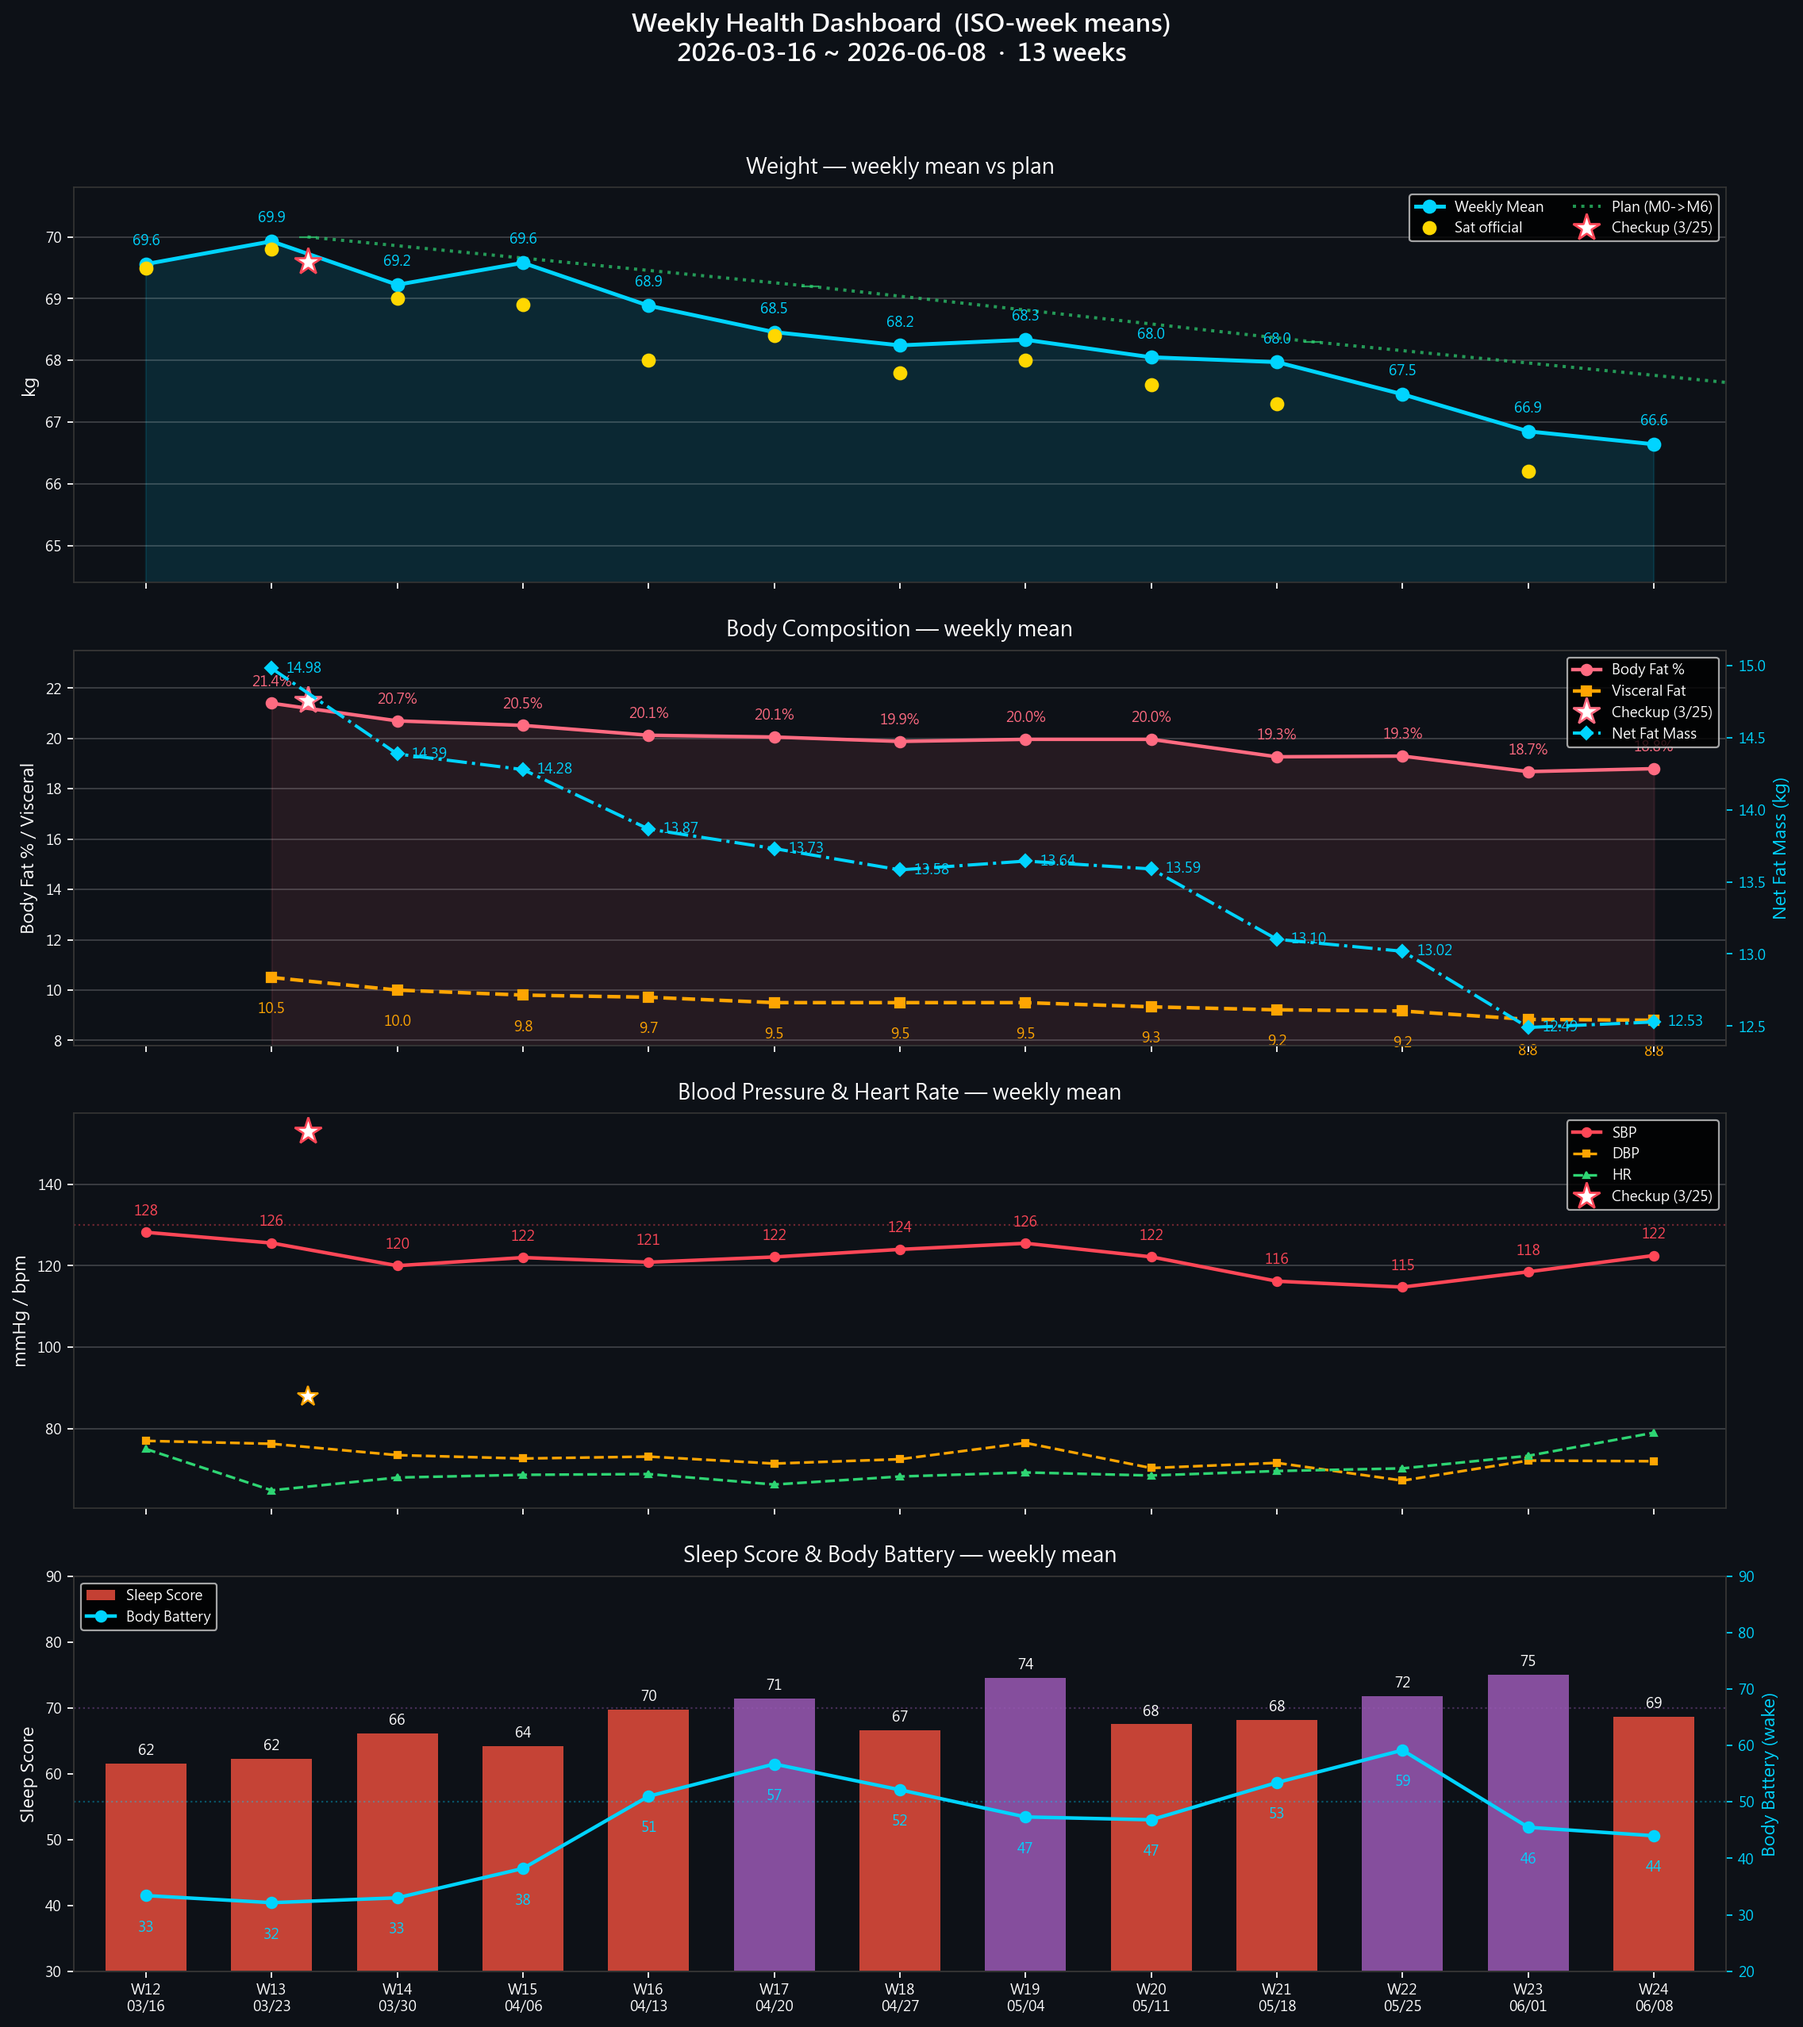
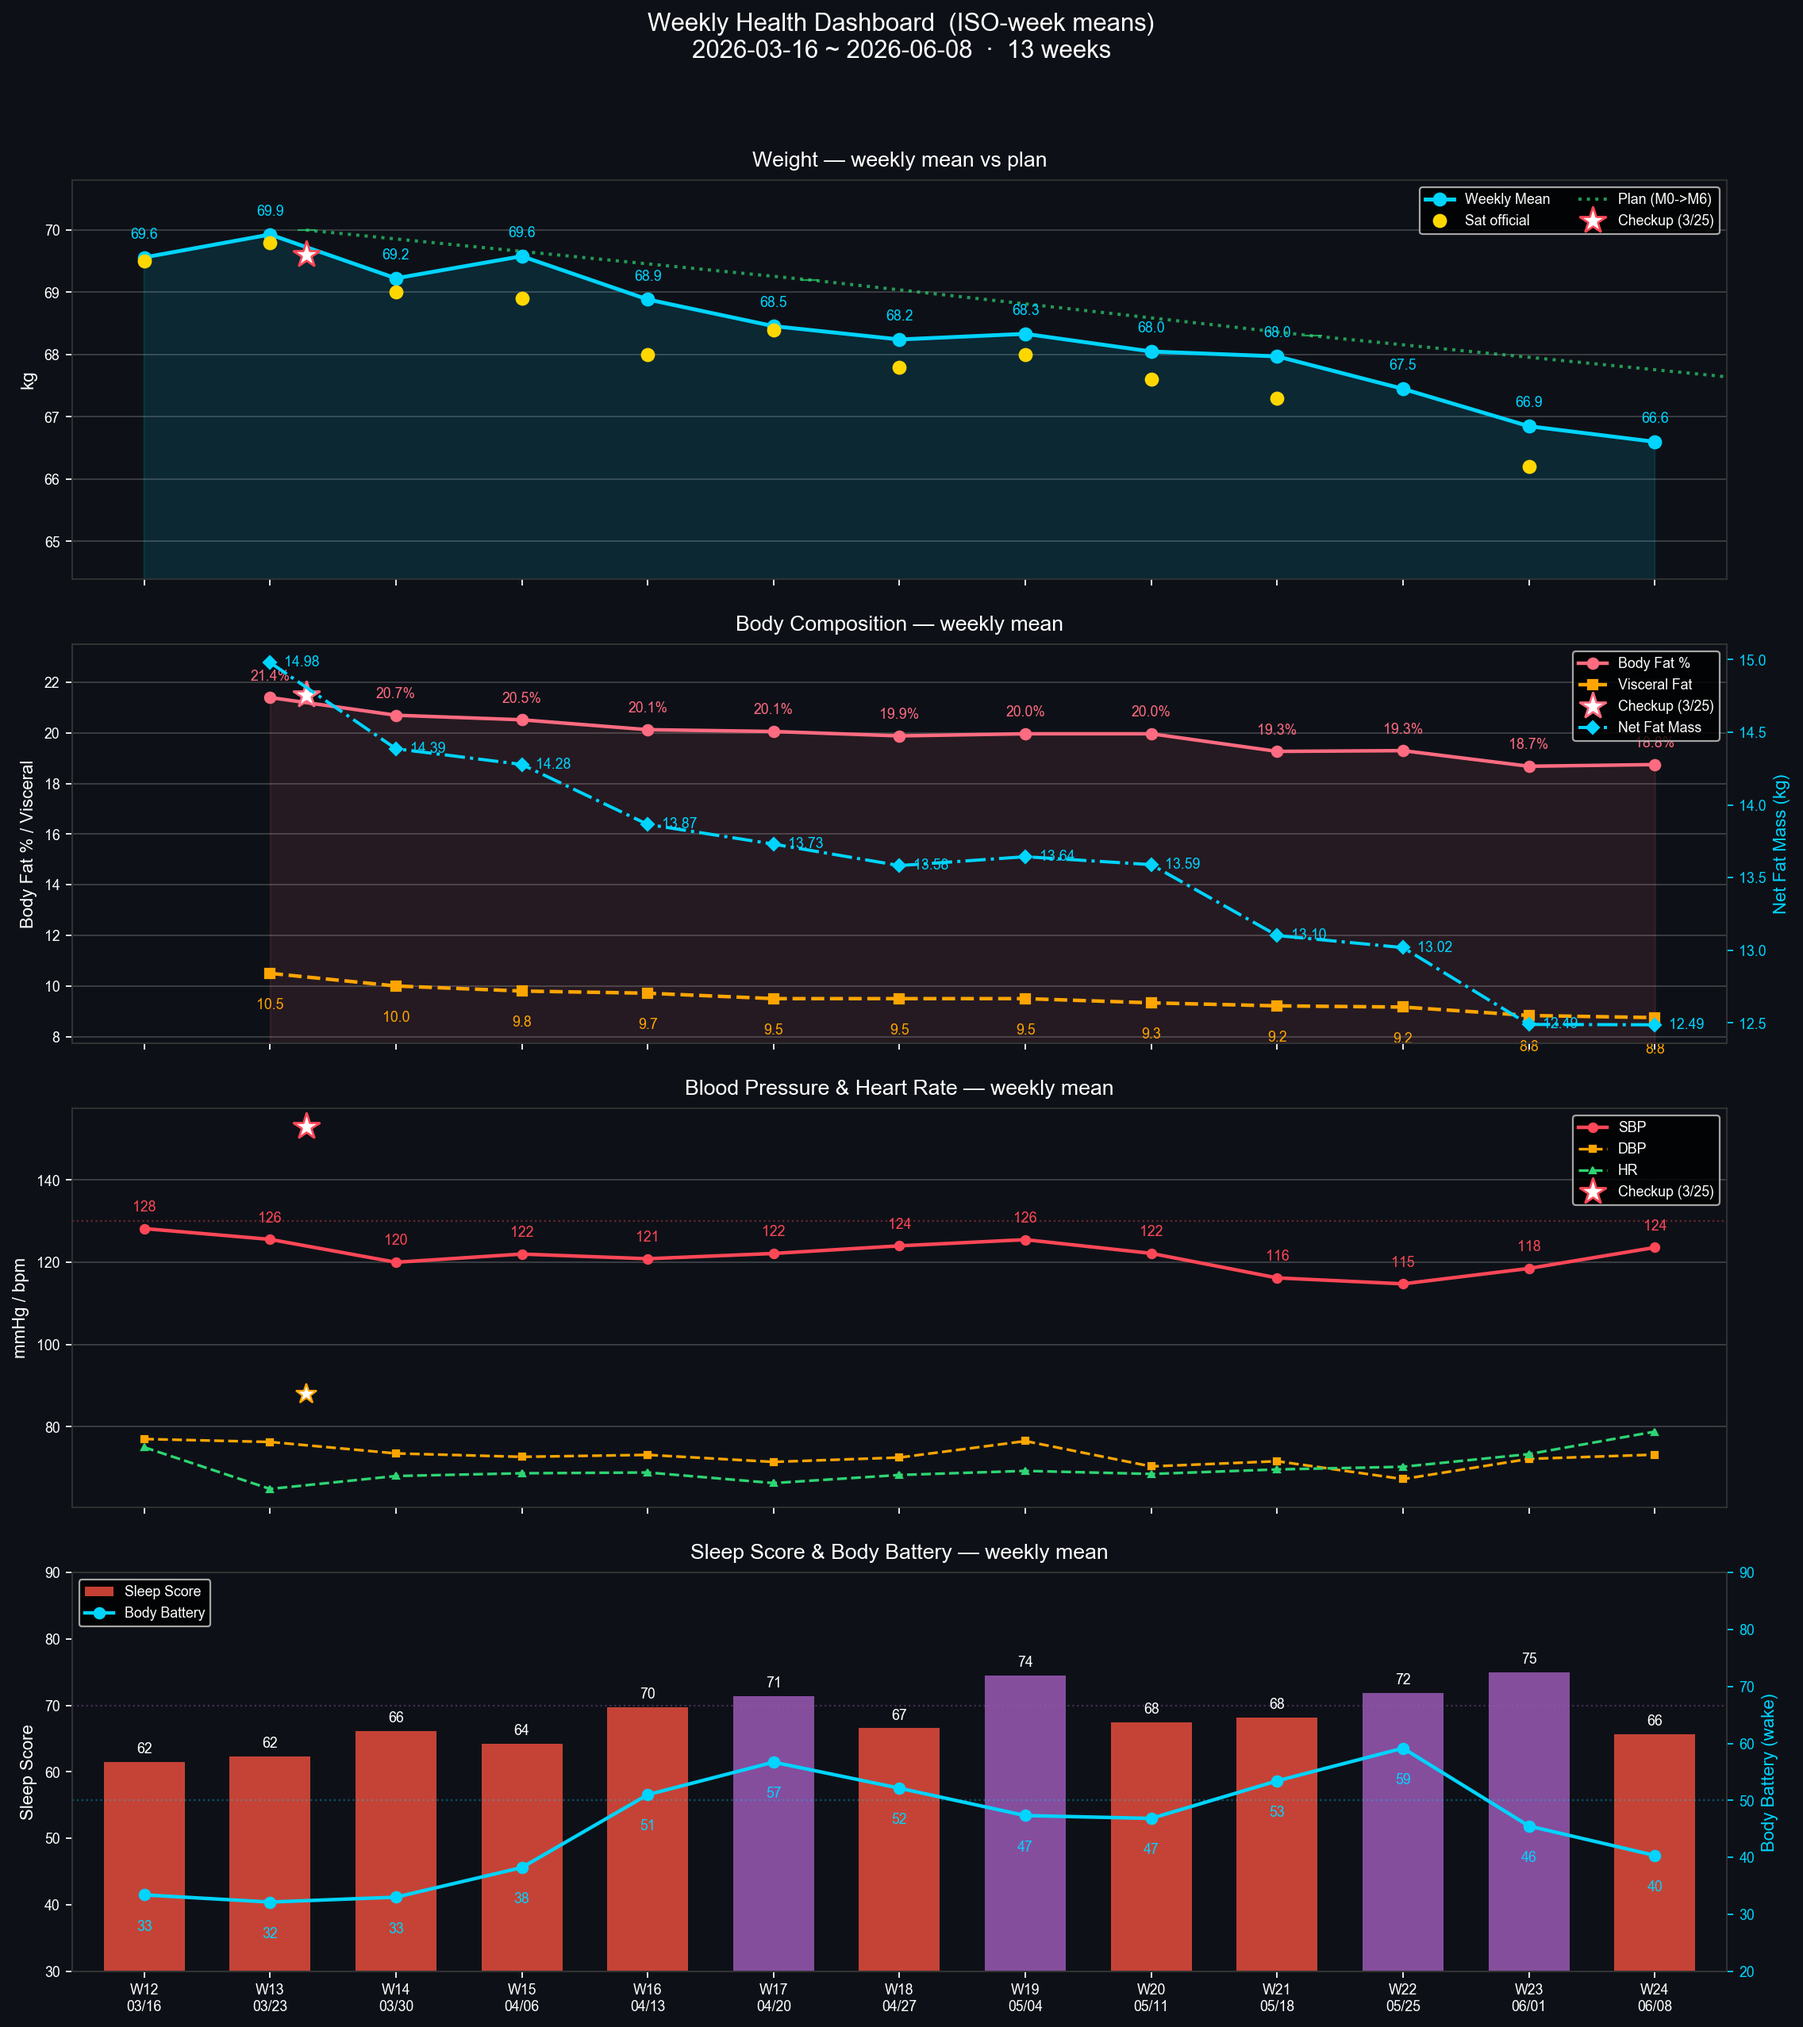
daily health log 2026-06-14

diff --git a/data.js b/data.js
@@ -17,17 +17,17 @@ window.HC_DATA = {
     lede:    { en: "Sleep, BP, lipids, uric acid — one shared metabolic root. Lifestyle stacks first; medication only after lifestyle plateaus.",
                zh: "睡眠、血壓、血脂、尿酸——共享同一個代謝根源。生活方式介入優先，等到效果平台期再考慮藥物。" },
     progressLbl: { en: "Weight progress · 70 → 65 kg", zh: "體重進度 · 70 → 65 公斤" },
-    progressMeta: { en: "Day 88 · 66.2 kg · Sat official (6/6)", zh: "第 88 天 · 66.2 公斤 · 週六正式（6/6）" },
-    startDate: { en: "Start date · Mar 17, 2026 · Last sync 6/12", zh: "起始日期 · 2026 年 3 月 17 日 · 最後同步 6/12" },
+    progressMeta: { en: "Day 90 · 66.2 kg · Sat official (6/6)", zh: "第 90 天 · 66.2 公斤 · 週六正式（6/6）" },
+    startDate: { en: "Start date · Mar 17, 2026 · Last sync 6/14", zh: "起始日期 · 2026 年 3 月 17 日 · 最後同步 6/14" },
     startWeight: 70,
     targetWeight: 65,
     currentWeight: 66.2,
     currentWeightDate: "6/6 Sat official",
     // Body comp current actuals — latest daily reading (6/5). Manual for now:
     // sync_data_js.py does NOT yet populate these (only weight/BP/sleep). Update on daily check-in.
-    currentBodyFat: 19.4,
-    currentVisceralFat: 9,
-    currentBodyCompDate: "6/12",
+    currentBodyFat: 18.5,
+    currentVisceralFat: 8.5,
+    currentBodyCompDate: "6/14",
     // Waist = WHO midpoint (健檢-comparable; better VAT proxy than weight). Latest non-empty daily reading.
     currentWaist: 82,
     currentWaistDate: "6/9",
@@ -54,14 +54,14 @@ window.HC_DATA = {
   markers: [
     {
       sys: "heart", name: { en: "Blood Pressure", zh: "血壓" },
-      val: "118/72", unit: "mmHg",
-      delta: { en: "W23 weekly avg (6 days) · target met (<130) · last 119/74 (6/11)", zh: "W23 週均（6 天）· 已達標 (<130) · 最新 119/74 (6/11)" },
+      val: "124/73", unit: "mmHg",
+      delta: { en: "W24 weekly avg (5 days) · target met (<130) · last 128/78 (6/14)", zh: "W24 週均（5 天）· 已達標 (<130) · 最新 128/78 (6/14)" },
       cadence: { en: "Daily · weekly avg", zh: "每日 · 週均" },
       status: "ok",
     },
     {
       sys: "sleep", name: { en: "Sleep Score", zh: "睡眠分數" },
-      val: "78", unit: "Garmin",
+      val: "51", unit: "Garmin",
       delta: { en: "5/4 · OSA flag: T90 18.4% (severe)", zh: "5/4 · OSA 紅旗：T90 18.4%（重度）" },
       cadence: { en: "Daily · Garmin", zh: "每日 · Garmin" },
       status: "warn",
@@ -942,17 +942,17 @@ window.HC_DATA = {
   tracker: {
     // [SBP, DBP] — gaps filled with prior reading
     bp: [
-      [114,67], [114,67], [114,67], [119,70], [113,70], [117,69], [118,74], [123,75], [121,75], [120,71], [129,72], [122,71], [119,74], [119,74],
+      [114,67], [114,67], [119,70], [113,70], [117,69], [118,74], [123,75], [121,75], [120,71], [129,72], [122,71], [119,74], [119,74], [128,78],
     ],
     // daily weight (kg)
-    weight: [67.1, 66.8, 67, 67.2, 67.2, 66.7, 66.6, 66.2, 67.2, 66.8, 66.9, 66.7, 66.3, 66.5],
+    weight: [66.8, 67, 67.2, 67.2, 66.7, 66.6, 66.2, 67.2, 66.8, 66.9, 66.7, 66.3, 66.5, 66.4],
     // Garmin Sleep Score
-    sleep:  [76, 66, 79, 80, 79, 76, 73, 75, 67, 81, 70, 59, 55, 78],
+    sleep:  [66, 79, 80, 79, 76, 73, 75, 67, 81, 70, 59, 55, 78, 51],
     // Body Battery waking
-    bb:     [59, 55, 69, 71, 53, 41, 40, 39, 29, 41, 56, 37, 32, 54],
+    bb:     [55, 69, 71, 53, 41, 40, 39, 29, 41, 56, 37, 32, 54, 22],
     // SpO2 nightly nadir % (last 14 days, parallel to bp/weight/sleep/bb).
     // Earlier nights null until sync_data_js.py backfills; banner only uses trailing values.
-    spo2Nadir: [94, 91, 86, 89, 87, 92, 94, 85, null, 90, 87, 87, 91, 88],
+    spo2Nadir: [91, 86, 89, 87, 92, 94, 85, null, 90, 87, 87, 91, 88, null],
   },
 
   // ===== Running — started 2026-04-26 =====

diff --git a/reviews/daily/2026-06-14.md b/reviews/daily/2026-06-14.md
@@ -1,0 +1,117 @@
+# 晨間健康紀錄 — 2026-06-14
+
+*3 分鐘。起床後立即完成。記錄，不分析。*
+
+---
+
+## 體重 / 體組成
+
+**今日：66.4 kg**
+**體脂率：18.5 %**
+**內臟脂肪等級：8.5**
+**腰圍 (WHO midpoint)：[ ] cm**（最下肋骨下緣 + 髂嵴頂端兩點水平中點環繞，通常在肚臍上方 2-5 cm；**與健檢歷史可比**；目標維持 ≤ 83、推進至 < 80 cm）
+**腰圍 (最大腹圍)：[ ] cm**（自然站立、吐氣末、不收腹，軟尺上下移動找最大讀數；通常在肚臍 0 至 -4 cm；**對內臟脂肪變化最敏感**）
+
+*每週六早晨為正式體重紀錄（排尿後、進食前；連 5 個工作日後、週末大餐前的真實低點）。其他日可選填。*
+*腰圍每日量（起床排尿後、進食前）。量兩個位置（WHO + max），方向應一致；若差距 > 3 cm 持續，考慮以 max 為主追蹤指標。*
+*WHO midpoint：科學標準，國健署 / 健檢 / metabolic syndrome 診斷用；最大腹圍：內臟脂肪 visceral fat correlation 最強。*
+
+---
+
+## 血壓（晨間）
+
+*起床後 1 小時內，上完廁所、進食前。坐下安靜 5 分鐘，連量兩次取第二次。*
+
+| 次數 | 收縮壓 | 舒張壓 | 心率 |
+|------|--------|--------|------|
+| 第一次 | | | |
+| 第二次 | 128 | 78 | 78 |
+
+---
+
+## 睡眠狀態
+
+**Garmin 偵測入睡：** 01:48
+**實際上床：** 01:30（演算法估算）
+**實際起床：** 06:00
+**總時長：** 4h 10m（深眠 126 分｜REM 9 分）
+**中途醒來：** 無
+**Garmin Sleep Score：** 51 / 100
+**Garmin Body Battery 起床值：** 22
+**主觀恢復感：** 4 / 5（1=極度疲憊, 5=精力充沛）
+**入睡 latency：** 19 分（範圍 19–79 分，wide_range；HR/步數估算差 60 分，無法區分躺床清醒）
+**RHR：** 63 bpm｜**日均壓力：** 28
+
+### SpO2 夜間最低（7 晚趨勢）
+
+| 日期 | -6 | -5 | -4 | -3 | -2 | -1 | 今晨 |
+|------|----|----|----|----|----|----|------|
+| 日期 | | | | | | | |
+| 最低 % | | | | | | | |
+
+**今晨日均 SpO2：** 96%（睡眠平均 97%）
+**今晨最低 SpO2：** 88%（瞬間最低，手錶秒級聚合）
+**< 88% 連續晚數：** 0（OSA 紅旗門檻：連 3 晚 < 88% → 強烈建議 PSG）
+
+**SpO2 desat events（每分鐘解析度）：** T90 ≈ 0.8%｜< 90% 累計 2 分｜共 1 段
+
+| 時段 | 長度 | 最低 | 平均 | 分級 |
+|------|------|------|------|------|
+| 01:49–01:50 | 2 分 | 88% | 88% | 🟢 邊緣 |
+
+**SpO2 全夜圖（含 hypnogram 條帶）：** [ ]
+**SpO2 趨勢圖：** [ ]
+**SpO2 全夜 Heatmap（28+ 晚 Venu 4 cohort）：** [ ]
+**SpO2 × 睡眠分期 7 晚疊圖：** [ ]
+
+*Sleep Score < 65 或 Body Battery < 50 連續三天 → 重新檢視睡眠修復方案。*
+
+---
+
+## 昨日回顧
+
+**實際飲水量：** 2.0 L（低於 2.5L 目標；高尿酸最佳 2.8–3.0L；17:00 前完成 60-70%）
+**昨日步數：** 6,849 步（< baseline ~13,000；昨日壓力日均 43）
+**昨日活動消耗：** [ ] kcal（主動 + BMR；自動讀自 Garmin daily summary 活動區塊）
+  - > 300 kcal → 今日可彈性增加 200-300 kcal 攝取
+  - < 100 kcal → 今日加強運動（補一段 Zone 2 走路 30 分）
+**昨日 Na / K / Na-K ratio：** [ ] mg / [ ] mg / [ ]（自動讀自 `scripts/analyze_nutrition.py --date YYYY-MM-DD`）
+  - Na/K < 0.5 ✅ / 0.5-0.6 🟢 / 0.6-0.8 🟡 / > 0.8 🟠（INTERSALT 1988）
+  - 連 3 天 ≥ 0.8 → 首選減鈉（自煮蛋取代茶葉蛋 −440 mg）或加 K（香蕉 +422 mg）
+
+---
+
+## 身體信號
+
+*任何張力、疼痛、疲勞、異常 — 或「清」。記位置、性質、強度。*
+
+| 部位 | 性質 | 強度 (0-10) |
+|------|------|-------------|
+| 清 | — | — |
+
+---
+
+## 今日計畫速記
+
+- [x] 飲水目標：2.5 L（建議 2.5–3.0L；錨點 09:30 ≥1.0L / 13:30 ≥2.0L / 17:00 截止 2.5L）
+- [ ] 補充品（核心，2026-05-11 v2）：
+  - 早餐（06:00）：D3 2000 IU + **K2 MK-7 180 mcg** + **L-Citrulline 4 g** + 益生菌
+  - 午餐前 30 min：Psyllium 5 g + 350 mL 水
+  - 晚餐前 30 min：Psyllium 5 g + 350 mL 水
+  - 晚餐後：魚油 ×4（拆 18:30 ×2 + 19:30 ×2）
+  - 睡前（21:00）：鎂甘胺酸 400 mg + 酸櫻桃 1000-2000 mg + **Glycine 純粉 3 g**（起步 1.5 g × 3 晚）
+  - 茶飲：洛神花 ×2 杯（早 + 14:00 前）
+  - 食物層：南瓜籽 30 g（15:30）+ **菇蕈 100-130 g/天**（午 30-50 + 晚 50-80）
+  - ⏸ 待定：NAC 600 mg × 2（待 PSG 結果）
+- [x] 運動（17:00 固定）：快走 walk（恢復不足日，控制在散步/輕度快走，RPE ≤ 4）
+- [ ] 活動度/伸展（09:30 + 20:30 兩次錨點）：____________________
+- [ ] Wind-down（20:00 燈光降 + 螢幕濾鏡，液體截止）
+- [ ] 上床 21:30 / 熄燈 22:00（TST 目標 7h+）
+
+---
+
+💡 **PT 建議：** 連兩晚總睡眠 < 4.5h、Body Battery 起床值僅 22–23（< 40）、REM 9 分/0 分、Sleep Score 51/41，恢復端是明確紅燈——今日只做「快走/散步」是對的，務必壓在 RPE ≤ 4，暫停靠牆深蹲與任何阻力訓練，把精力留給今晚補眠（目標上床提前到 21:30、TST 7h+）。你主觀回報 4/5 但客觀數據是嚴重不足，這種「不符」要留意是否腎上腺素掩蓋疲勞或有情緒/壓力源，今日決策以客觀數據為準、避免高認知負荷判斷。血壓 128/78 良好、SpO2 乾淨（T90 0.8%、無 OSA 紅旗）、身體信號清，這些是亮點；昨日飲水 2L 偏低，今天起床先補 500 mL 回到 2.5L 軌道。
+
+---
+
+*Filed: reviews/daily/2026-06-14.md*

diff --git a/reviews/weekly/2026-W24.md b/reviews/weekly/2026-W24.md
@@ -31,9 +31,9 @@
 
 |  | 一 | 二 | 三 | 四 | 五 | 六 | 日 |
 |--|----|----|----|----|----|----|-----|
-| 體重 (kg) | 66.8 | 66.9 | 66.7 | 66.3 | 66.5 | | |
-| 體脂率 (%) | 19.2 | 18.7 | 18.1 | 18.6 | 19.4 | | |
-| 內臟脂肪 | 9.0 | 9.0 | 8.5 | 8.5 | 9.0 | | |
+| 體重 (kg) | 66.8 | 66.9 | 66.7 | 66.3 | 66.5 | | 66.4 |
+| 體脂率 (%) | 19.2 | 18.7 | 18.1 | 18.6 | 19.4 | | 18.5 |
+| 內臟脂肪 | 9.0 | 9.0 | 8.5 | 8.5 | 9.0 | | 8.5 |
 | **腰圍 WHO (cm)** | 80 | 82 | | | | | |
 | **腰圍 max (cm)** | | | | | | | |
 
@@ -57,7 +57,7 @@
 | 06-11 (四) | 119 | 74 | 77 |
 | 06-12 (五) | — | — | — |
 | 06-13 (六) | | | |
-| 06-14 (日) | | | |
+| 06-14 (日) | 128 | 78 | 78 |
 
 **本週平均：** _____ / _____ mmHg，心率 _____ bpm
 
@@ -74,13 +74,13 @@
 | 06-10 (三) | 22:05 | 01:38 | 無 | 59 | 37 | 2 |
 | 06-11 (四) | 23:07 | 03:05 | 無 | 55 | 32 | 2 |
 | 06-12 (五) | 22:12 | 04:40 | 1（上廁所） | 78 | 54 | 3 |
-| 06-13 (六) | | | | | | |
-| 06-14 (日) | | | | | | |
+| 06-13 (六) | 22:03 | 02:14 | — | 41 | 23 | — |
+| 06-14 (日) | 01:48 | 06:00 | 無 | 51 | 22 | 4 |
 
 **Sleep Score 週均：** _____ / 100
 **Body Battery 週均：** _____
 **主觀恢復感週均：** _____ / 5
-**連續 < 65 天數：** 0（06-12 Sleep Score 78 中斷連續紀錄）
+**連續 < 65 天數：** 2（06-13 = 41、06-14 = 51；06-12 的 78 之後重新起算。連 3 天 < 65 → 觸發睡眠修復檢視）
 **22:30 前就寢天數：** 2 / 7
 
 ---
@@ -133,6 +133,7 @@
 | 06-10 (三) | 走路 walk + 晨間騎乘 6.1 min |
 | 06-11 (四) | 走路（預設）+ 晨間騎乘 6.1 min |
 | 06-12 (五) | 走路（預設）+ 晨間騎乘 5.7 min |
+| 06-14 (日) | 快走 walk（恢復不足日，RPE ≤ 4） |
 
 ---
 
